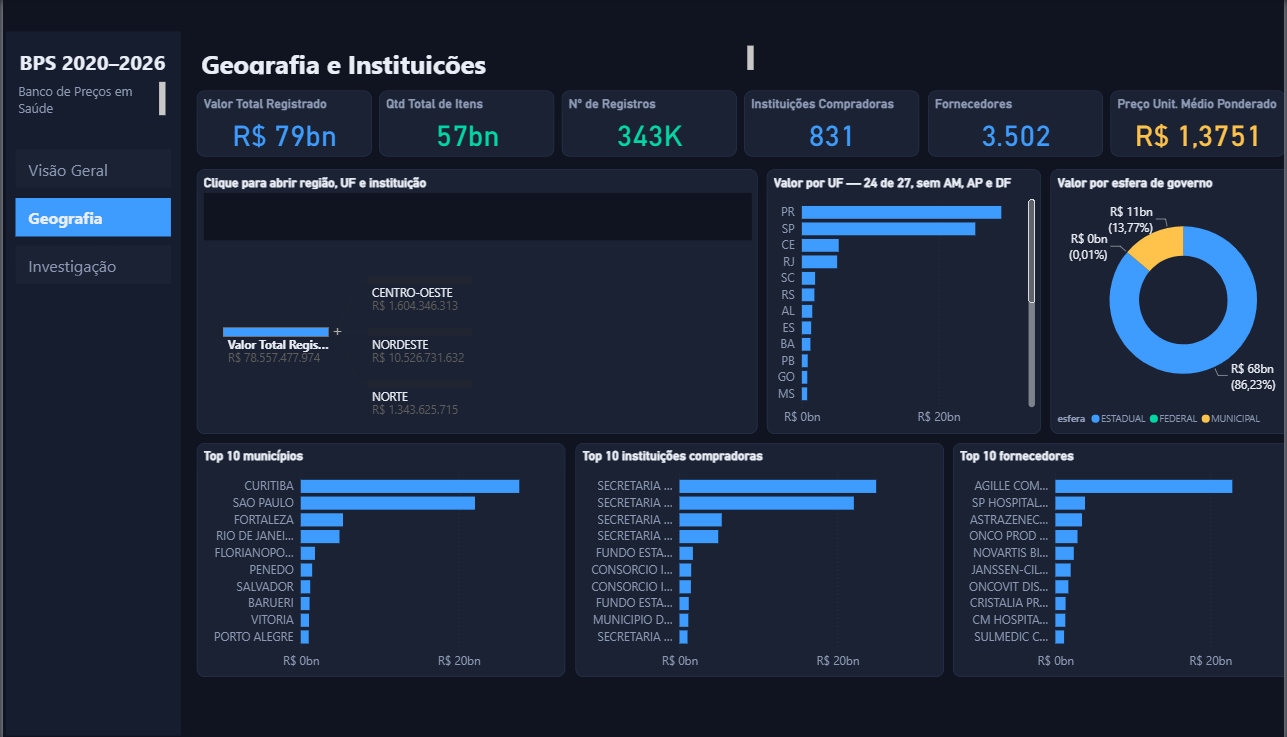
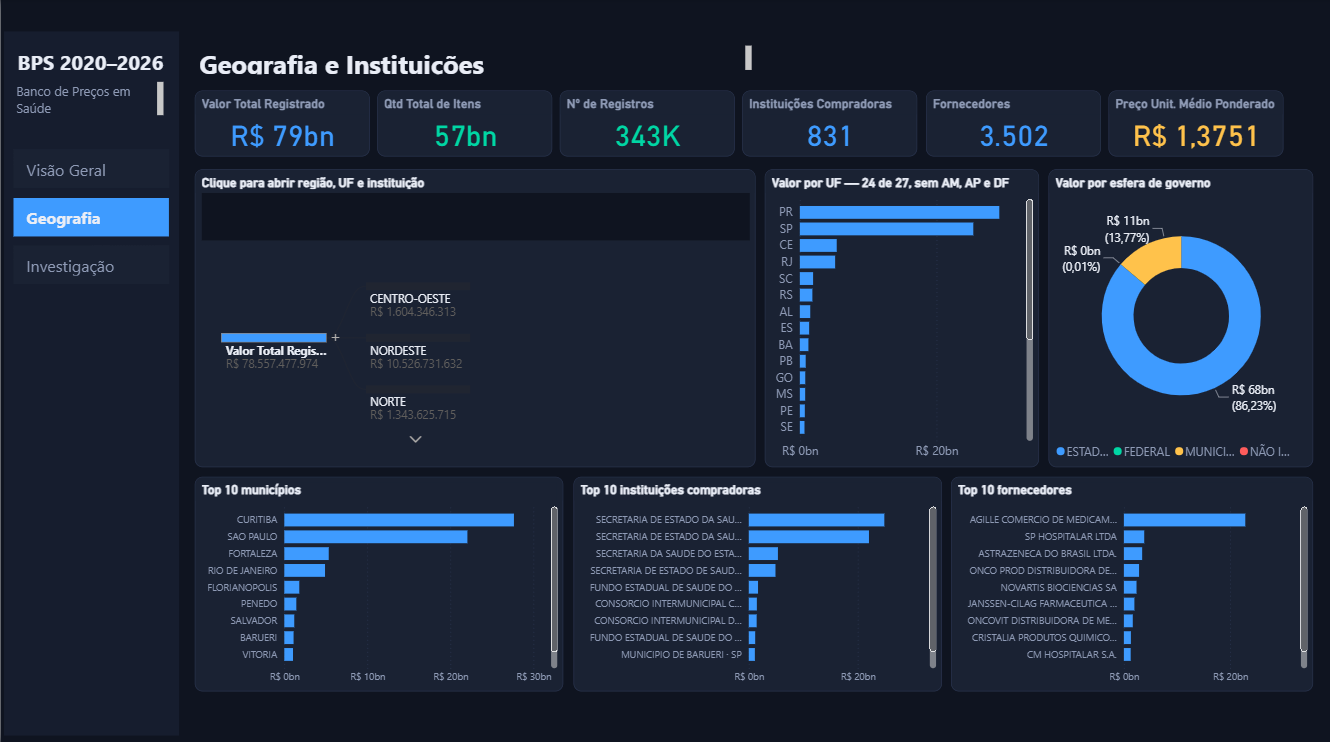
fix: colunas da tabela com largura fixa, UF no inicio do rotulo e teto da cascata

diff --git a/src/gerar_dashboard.py b/src/gerar_dashboard.py
@@ -85,6 +85,11 @@ def o(**p) -> list:
     return [{"properties": p}]
 
 
+def largura_coluna(ref: str, px: int) -> dict:
+    """Largura fixa de uma coluna da tabela, endereçada pelo queryRef."""
+    return {"properties": {"value": num(px)}, "selector": {"metadata": ref}}
+
+
 def o_estado(mostrar: bool, **p) -> list:
     """Objeto com estado nomeado.
 
@@ -354,7 +359,7 @@ def pagina2() -> list:
     vs = trilho(1) + faixa_kpis("p2")
     vs.append(rotulo_texto("t2", "Geografia e Instituições", x0, 24, 700, 46, 24))
     vs += [
-        visual("arvore", "decompositionTreeVisual", x0, 182, 700, 372,
+        visual("arvore", "decompositionTreeVisual", x0, 182, 700, 436,
                # Os papéis da árvore são "Analyze" e "ExplainBy" — com
                # "Analysis"/"Group" o visual carrega mas exibe
                # "No field to analyze".
@@ -364,13 +369,13 @@ def pagina2() -> list:
                               proj(col(TABELA, "instituicao"), f"{TABELA}.instituicao")]},
                "Clique para abrir região, UF e instituição",
                {}),
-        visual("barras_uf", "clusteredBarChart", x0 + 712, 182, 342, 372,
+        visual("barras_uf", "clusteredBarChart", x0 + 712, 182, 342, 436,
                {"Category": [proj(col(TABELA, "uf"), f"{TABELA}.uf")],
                 "Y": [proj(med("Valor Total Registrado"), f"{TABELA}.Valor Total Registrado")]},
                "Valor por UF — 24 de 27, sem AM, AP e DF",
                {**eixos(), "dataPoint": o(fill=grad("Valor Total Registrado", AZUL_ESC, AZUL))},
                sort_med="Valor Total Registrado"),
-        visual("donut_esfera", "donutChart", x0 + 1066, 182, 330, 372,
+        visual("donut_esfera", "donutChart", x0 + 1066, 182, 330, 436,
                {"Category": [proj(col(TABELA, "esfera"), f"{TABELA}.esfera")],
                 "Y": [proj(med("Valor Total Registrado"), f"{TABELA}.Valor Total Registrado")]},
                "Valor por esfera de governo",
@@ -378,20 +383,20 @@ def pagina2() -> list:
                             labelColor=cor(TINTA2), showTitle=bol(False)),
                 "labels": o(show=bol(True), fontSize=num(11), color=cor(TINTA)),
                 "slices": o(innerRadiusRatio=num(60))}),
-        visual("barras_municipio", "clusteredBarChart", x0, 566, 460, 268,
+        visual("barras_municipio", "clusteredBarChart", x0, 630, 460, 254,
                {"Category": [proj(col(TABELA, "municipio_instituicao"), f"{TABELA}.municipio_instituicao")],
                 "Y": [proj(med("Valor Total Registrado"), f"{TABELA}.Valor Total Registrado")]},
                "Top 10 municípios",
                {**eixos(), "dataPoint": o(fill=grad("Valor Total Registrado", AZUL_ESC, AZUL))},
                sort_med="Valor Total Registrado", topn=10,
                cat=(TABELA, "municipio_instituicao")),
-        visual("barras_instituicao", "clusteredBarChart", x0 + 472, 566, 460, 268,
+        visual("barras_instituicao", "clusteredBarChart", x0 + 472, 630, 460, 254,
                {"Category": [proj(col(TABELA, "instituicao"), f"{TABELA}.instituicao")],
                 "Y": [proj(med("Valor Total Registrado"), f"{TABELA}.Valor Total Registrado")]},
                "Top 10 instituições compradoras",
                {**eixos(), "dataPoint": o(fill=grad("Valor Total Registrado", AZUL_ESC, AZUL))},
                sort_med="Valor Total Registrado", topn=10, cat=(TABELA, "instituicao")),
-        visual("barras_fornecedor", "clusteredBarChart", x0 + 944, 566, 452, 268,
+        visual("barras_fornecedor", "clusteredBarChart", x0 + 944, 630, 452, 254,
                {"Category": [proj(col(TABELA, "fornecedor"), f"{TABELA}.fornecedor")],
                 "Y": [proj(med("Valor Total Registrado"), f"{TABELA}.Valor Total Registrado")]},
                "Top 10 fornecedores",
@@ -416,6 +421,12 @@ def pagina3() -> list:
                 "Y": [proj(med("Valor Registros Atípicos"), f"{TABELA}.Valor Registros Atípicos")]},
                "Contribuição do valor sinalizado, ano a ano",
                {**eixos(True, VERMELHO),
+                # O total bate em R$ 34 bi; sem teto explicito a barra
+                # encosta no topo e o rotulo sai cortado.
+                "valueAxis": o(show=bol(True), showAxisTitle=bol(False),
+                               fontSize=num(11), labelColor=cor(TINTA2),
+                               gridlineShow=bol(True), gridlineColor=cor(BORDA),
+                               end=num(40000000000)),
                 "sentimentColors": o(increaseFill=cor(VERMELHO), decreaseFill=cor(TEAL),
                                      totalFill=cor(AZUL))}),
         visual("dispersao", "scatterChart", x0 + 974, 182, 422, 360,
@@ -438,7 +449,6 @@ def pagina3() -> list:
         visual("tabela", "tableEx", x0, 556, 1396, 280,
                {"Values": [
                    proj(col(TABELA, "ano_compra"), f"{TABELA}.ano_compra"),
-                   proj(col(TABELA, "uf"), f"{TABELA}.uf"),
                    proj(col(TABELA, "instituicao"), f"{TABELA}.instituicao"),
                    proj(col(TABELA, "principio_ativo"), f"{TABELA}.principio_ativo"),
                    proj(col(TABELA, "unidade_fornecimento"), f"{TABELA}.unidade_fornecimento"),
@@ -451,13 +461,27 @@ def pagina3() -> list:
                # A tabela usa fontColorPrimary/backColorPrimary (e o par
                # Secondary das linhas alternadas). Com fontColor/backColor o
                # JSON passa mas as linhas ficam brancas sobre o tema escuro.
+               # Sem largura fixa o Power BI dá ~metade da tabela à coluna de
+               # instituição e empurra preço, mediana e razão — que são o
+               # ponto da página — para fora da barra de rolagem.
                {"grid": o(gridVertical=bol(False), gridHorizontalColor=cor(BORDA),
                           rowPadding=num(4)),
                 "columnHeaders": o(fontSize=num(11), bold=bol(True),
                                    fontColor=cor(TINTA), backColor=cor(RAIL_BG)),
                 "values": o(fontSize=num(11),
                             fontColorPrimary=cor(TINTA), backColorPrimary=cor(CARTAO),
-                            fontColorSecondary=cor(TINTA), backColorSecondary=cor(RAIL_BG))},
+                            fontColorSecondary=cor(TINTA), backColorSecondary=cor(RAIL_BG)),
+                "columnWidth": [
+                    largura_coluna(f"{TABELA}.ano_compra", 70),
+                    largura_coluna(f"{TABELA}.instituicao", 300),
+                    largura_coluna(f"{TABELA}.principio_ativo", 200),
+                    largura_coluna(f"{TABELA}.unidade_fornecimento", 150),
+                    largura_coluna(f"{TABELA}.qtd_itens_comprados", 125),
+                    largura_coluna(f"{TABELA}.preco_unitario", 120),
+                    largura_coluna(f"{TABELA}.mediana_grupo", 120),
+                    largura_coluna(f"{TABELA}.razao_vs_mediana", 105),
+                    largura_coluna(f"{TABELA}.Valor Total Registrado", 140),
+                ]},
                sort_med="Valor Total Registrado"),
     ]
     return vs

diff --git a/src/gerar_pbip.py b/src/gerar_pbip.py
@@ -137,7 +137,7 @@ def model_bim(csv_path: str) -> dict:
         "dataType": "string",
         "type": "calculated",
         "isDataTypeInferred": True,
-        "expression": 'fBPS[nome_instituicao] & " · " & fBPS[uf]',
+        "expression": 'fBPS[uf] & " · " & fBPS[nome_instituicao]',
         "summarizeBy": "none",
     })
 
